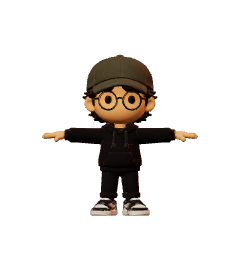
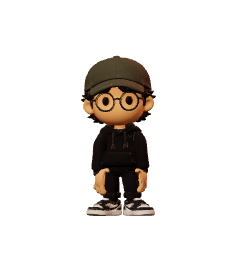
Corrige postura inicial e primeiro quadro do personagem

Changed region(s): [[0.175, 0.1846, 0.8167, 0.8308], [0.4375, 0.2154, 0.4667, 0.2462]]

diff --git a/cash-advance.html b/cash-advance.html
@@ -1,4 +1,4 @@
-<!doctype html><html lang="pt-BR"><head><meta charset="utf-8"><meta name="viewport" content="width=device-width,initial-scale=1"><meta name="theme-color" content="#101114"><title>Cash Advance: Estudo de caso: Fabiano Antero</title><meta name="description" content="Jornada financeira para motoristas: pesquisa, antecipação, Pix, cartão virtual, Caixinhas, crédito e sistema visual."><link rel="ai-catalog" href="/.well-known/ai-catalog.json" type="application/ai-catalog+json"><link rel="icon" href="assets/favicon.svg" type="image/svg+xml"><link rel="stylesheet" href="assets/css/site.css?v=20261005-perf-1"><link rel="stylesheet" href="assets/css/cash-case.css"><script src="assets/js/i18n.js" defer></script><script src="assets/js/app.js" defer></script><script type="module" src="assets/js/chibi-loader.js?v=20261005-perf" data-character-loader></script><script type="text/javascript">
+<!doctype html><html lang="pt-BR"><head><meta charset="utf-8"><meta name="viewport" content="width=device-width,initial-scale=1"><meta name="theme-color" content="#101114"><title>Cash Advance: Estudo de caso: Fabiano Antero</title><meta name="description" content="Jornada financeira para motoristas: pesquisa, antecipação, Pix, cartão virtual, Caixinhas, crédito e sistema visual."><link rel="ai-catalog" href="/.well-known/ai-catalog.json" type="application/ai-catalog+json"><link rel="icon" href="assets/favicon.svg" type="image/svg+xml"><link rel="stylesheet" href="assets/css/site.css?v=20261005-perf-1"><link rel="stylesheet" href="assets/css/cash-case.css"><script src="assets/js/i18n.js" defer></script><script src="assets/js/app.js" defer></script><script type="module" src="assets/js/chibi-loader.js?v=20261005-idle" data-character-loader></script><script type="text/javascript">
     (function(c,l,a,r,i,t,y){
         c[a]=c[a]||function(){(c[a].q=c[a].q||[]).push(arguments)};
         t=l.createElement(r);t.async=1;t.src="https://www.clarity.ms/tag/"+i;

diff --git a/projetos.html b/projetos.html
@@ -1,4 +1,4 @@
-<!doctype html><html lang="pt-BR"><head><meta charset="utf-8"><meta name="viewport" content="width=device-width,initial-scale=1"><meta name="theme-color" content="#101114"><title>Projetos: Fabiano Antero</title><meta name="description" content="Explore os trabalhos de Fabiano Antero em finanças, serviços e consumo de energia."><link rel="ai-catalog" href="/.well-known/ai-catalog.json" type="application/ai-catalog+json"><link rel="icon" href="assets/favicon.svg" type="image/svg+xml"><link rel="stylesheet" href="assets/css/site.css?v=20261005-perf-1"><link rel="stylesheet" href="assets/css/collection.css"><script src="assets/js/i18n.js" defer></script><script src="assets/js/app.js" defer></script><script type="module" src="assets/js/chibi-loader.js?v=20261005-perf" data-character-loader></script><script type="text/javascript">
+<!doctype html><html lang="pt-BR"><head><meta charset="utf-8"><meta name="viewport" content="width=device-width,initial-scale=1"><meta name="theme-color" content="#101114"><title>Projetos: Fabiano Antero</title><meta name="description" content="Explore os trabalhos de Fabiano Antero em finanças, serviços e consumo de energia."><link rel="ai-catalog" href="/.well-known/ai-catalog.json" type="application/ai-catalog+json"><link rel="icon" href="assets/favicon.svg" type="image/svg+xml"><link rel="stylesheet" href="assets/css/site.css?v=20261005-perf-1"><link rel="stylesheet" href="assets/css/collection.css"><script src="assets/js/i18n.js" defer></script><script src="assets/js/app.js" defer></script><script type="module" src="assets/js/chibi-loader.js?v=20261005-idle" data-character-loader></script><script type="text/javascript">
     (function(c,l,a,r,i,t,y){
         c[a]=c[a]||function(){(c[a].q=c[a].q||[]).push(arguments)};
         t=l.createElement(r);t.async=1;t.src="https://www.clarity.ms/tag/"+i;

diff --git a/ordiny.html b/ordiny.html
@@ -1,4 +1,4 @@
-<!doctype html><html lang="pt-BR"><head><meta charset="utf-8"><meta name="viewport" content="width=device-width,initial-scale=1"><meta name="theme-color" content="#101114"><title>Ordiny: Estudo de caso: Fabiano Antero</title><meta name="description" content="Da captação à gestão do atendimento: produto, UX/UI, desenvolvimento e decisões da plataforma Ordiny."><link rel="ai-catalog" href="/.well-known/ai-catalog.json" type="application/ai-catalog+json"><link rel="icon" href="assets/favicon.svg" type="image/svg+xml"><link rel="stylesheet" href="assets/css/site.css?v=20261005-perf-1"><script src="assets/js/i18n.js" defer></script><script src="assets/js/app.js" defer></script><script type="module" src="assets/js/chibi-loader.js?v=20261005-perf" data-character-loader></script><script type="text/javascript">
+<!doctype html><html lang="pt-BR"><head><meta charset="utf-8"><meta name="viewport" content="width=device-width,initial-scale=1"><meta name="theme-color" content="#101114"><title>Ordiny: Estudo de caso: Fabiano Antero</title><meta name="description" content="Da captação à gestão do atendimento: produto, UX/UI, desenvolvimento e decisões da plataforma Ordiny."><link rel="ai-catalog" href="/.well-known/ai-catalog.json" type="application/ai-catalog+json"><link rel="icon" href="assets/favicon.svg" type="image/svg+xml"><link rel="stylesheet" href="assets/css/site.css?v=20261005-perf-1"><script src="assets/js/i18n.js" defer></script><script src="assets/js/app.js" defer></script><script type="module" src="assets/js/chibi-loader.js?v=20261005-idle" data-character-loader></script><script type="text/javascript">
     (function(c,l,a,r,i,t,y){
         c[a]=c[a]||function(){(c[a].q=c[a].q||[]).push(arguments)};
         t=l.createElement(r);t.async=1;t.src="https://www.clarity.ms/tag/"+i;

diff --git a/assets/js/chibi-loader.js b/assets/js/chibi-loader.js
@@ -6,7 +6,7 @@ if(!dismissed) {
   const reduced=matchMedia('(prefers-reduced-motion: reduce)');
   const layer=document.createElement('div');layer.className='chibi-layer';
   const preview=document.createElement('div');preview.className='chibi-pet chibi-placeholder';preview.dataset.state='idle';
-  const image=document.createElement('img');image.src=new URL('../img/chibi-preview.webp',import.meta.url).href;
+  const image=document.createElement('img');image.src=new URL('../img/chibi-preview.webp?v=20261005-idle',import.meta.url).href;
   image.alt='';image.width=240;image.height=260;image.setAttribute('aria-hidden','true');
   const trigger=document.createElement('button');trigger.className='chibi-trigger';trigger.type='button';
   const close=document.createElement('button');close.className='chibi-close';close.type='button';close.textContent='×';
@@ -23,7 +23,7 @@ if(!dismissed) {
   async function loadPet(event) {
     if(!alive||reduced.matches)return;
     if(!loading)loading=(async()=>{
-      const {createPet}=await import('./chibi-pet.js?v=20261005-perf');
+      const {createPet}=await import('./chibi-pet.js?v=20261005-idle');
       if(!alive)return;
       pet=await createPet({layer,chat,onReady:removePreview});
       if(!alive)pet?.destroy();

diff --git a/assets/js/chibi-pet.js b/assets/js/chibi-pet.js
@@ -149,7 +149,9 @@ export async function createPet({layer:sharedLayer,chat:sharedChat,onReady}={}) 
       if(next==='idle'&&chat?.isOpen)next='talking';
       // Keep the actual departing pose so authored clips and the cursor grip
       // meet smoothly, including the final falling pose before standing up.
-      transitionPose=new Map([...bones].map(([name,entry])=>[name,{quaternion:entry.node.quaternion.clone(),position:entry.node.position.clone(),scale:entry.node.scale.clone()}]));
+      // The first visible frame must already use the idle/talking clip, never
+      // blend in the model's unanimated bind pose with its arms outstretched.
+      transitionPose=poseVersion===0?new Map():new Map([...bones].map(([name,entry])=>[name,{quaternion:entry.node.quaternion.clone(),position:entry.node.position.clone(),scale:entry.node.scale.clone()}]));
       transitionRotation.copy(pivot.quaternion);
       if(next==='landed')impactRotation.copy(pivot.rotation);
       mixer.stopAllAction();

diff --git a/index.html b/index.html
@@ -26,7 +26,7 @@
   <script src="assets/js/hero-blueprint.js?v=20261005-2" defer></script>
   <script src="assets/js/skills-marquee.js" defer></script>
   <script src="assets/js/app.js" defer></script>
-  <script type="module" src="assets/js/chibi-loader.js?v=20261005-perf" data-character-loader></script>
+  <script type="module" src="assets/js/chibi-loader.js?v=20261005-idle" data-character-loader></script>
 <script type="text/javascript">
     (function(c,l,a,r,i,t,y){
         c[a]=c[a]||function(){(c[a].q=c[a].q||[]).push(arguments)};
